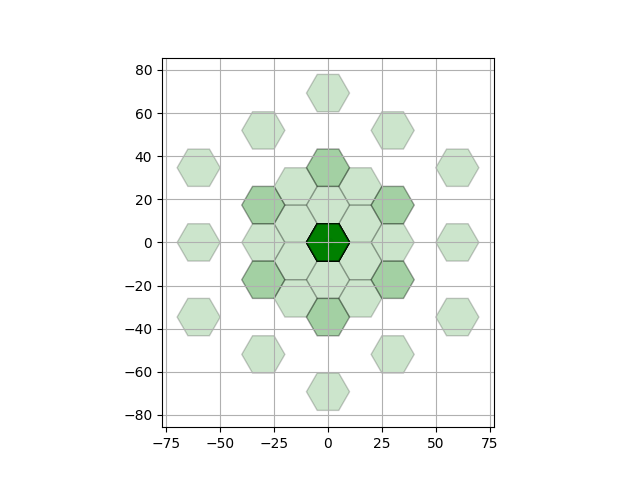
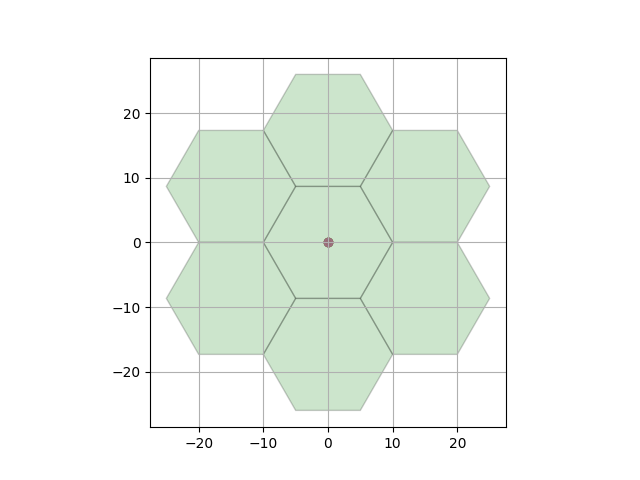
Prototipo inicial Celdas Hexagonales terminado hasta nivel 2.

diff --git a/protipo/grid_layout/prot_celda.py b/protipo/grid_layout/prot_celda.py
@@ -3,7 +3,7 @@ import matplotlib.pyplot as plt
 from matplotlib.patches import RegularPolygon
 import numpy as np
 import math
-import patron_hexagonal_circular as phc
+import prot_patron_hexagonal_circular as phc
 import time #debug
 #
 def guardar_lista(lista,bd_coordenadas):
@@ -50,7 +50,7 @@ def generar_patron_circular(nivel, patron):
 
 def variables():
 	numero_celdas=1	#requerimiento: funciona como una ventana, un slicing es util para graficar el número deseado
-	nivel=2 #nivel corresponde al nivel de coordenada hexagonal, (1.0.1) nivel 1, (2.0.1) nivel 2, etc.
+	nivel=1 #nivel corresponde al nivel de coordenada hexagonal, (1.0.1) nivel 1, (2.0.1) nivel 2, etc.
 	radio_ext=100/10 #radio de la celda hexagonal, igual en magnitud al lado.
 	apotema=math.sqrt(radio_ext**2 -(0.5*radio_ext)**2) #apotema
 	coordenada_patron=[] #inicialización de coordn
@@ -61,9 +61,15 @@ def test_coordenadas(nivel, coordenada_patron):
 	g=generar_lista(nivel, coordenada_patron)
 
 def distancia_entre_celdas(nivel, radio_ext):
-	'''Funcion que genera el valor de la distancia entre el origen y las celdas por nivel'''
+	'''Funcion que genera el valor de la distancia entre el origen y las celdas por nivel. Puede ser util para calcular el 
+	radio de todo el sistema'''
 	#print(radio_ext)
 	r_med=radio_ext/2
+	
+	#este nivel debe ser constante cuando se llama en el mapeo, porque?
+	#Rta, debido a que la distancia entre celdas, se ve afectada por 2/3*seno(60)(x-z), por esto dec
+	#no debe ser ajustable porque esa distancia se ajusta en la ecuacion de arriba.
+	print("distancia_entre_celdas",3*(nivel)*r_med)
 	#print(r_med, nivel)
 	return 3*(nivel)*r_med
 
@@ -75,25 +81,27 @@ def mapear_coordenadas_cartesianas(coordenadas_axiales, radio_ext):
 	coordenadas_cartesianas_vertical = []
 	for i in range(len(coordenadas_axiales)):
 		print(i)
-	for lista in coordenadas_axiales:
+	for lista, nvl in zip(coordenadas_axiales, range(nivel+1)):
 		print("axiales totales ", lista, "numero de celdas ", len(lista))
-		#time.sleep(0.5)
-		for nvl in range(nivel+1):
-			print("nivel: ",nvl)
-			dec = distancia_entre_celdas(nvl, radio_ext)
-			print("distancia ", dec)
-			for axial in lista:
-				print("coordenada axial ") 
-				print(axial)
-				#time.sleep(0.5)
+		print("nivel: ",nvl)
+		dec = distancia_entre_celdas(1, radio_ext)
+		print("distancia ", dec)
+		print("---------------------")
+
+		for axial in lista:
+			print("coordenada axial ") 
+			print(axial)
+			time.sleep(0.5)
 				
-				coord_y= 2. * np.sin(np.radians(60)) * (dec*axial[1] - dec*axial[2]) /3.
+			coord_y= 2. * np.sin(np.radians(60)) * (dec*axial[1] - dec*axial[2]) /3.
 				
-				print("x final: ", axial[0]*dec )
-				print("y final: ", coord_y )
-				#time.sleep(1)
-				coordenadas_cartesianas_horizontal.append(axial[0]*dec)
-				coordenadas_cartesianas_vertical.append(coord_y)
+			print("x final: ", axial[0]*dec , "---","y final: ", coord_y)
+
+			coordenadas_cartesianas_horizontal.append(axial[0]*dec)
+			coordenadas_cartesianas_vertical.append(coord_y)
+		print("---------------------")
+		print("---------------------")
+		print("---------------------")
 			#		print(coord)
 			#	coordenadas_cartesianas_horizontal.append(coord*dec)
 				#time.sleep(0.4)
@@ -131,13 +139,13 @@ if __name__=="__main__":
 	#coordenada_patron = generar_patron_circular(nivel, coordenada_patron)
 	coordenadas_axiales = phc.ensamblar(nivel)
 	##print(len(coordenadas_axiales))
-	'''Task 2. generar patron en malla'''
-	dec = distancia_entre_celdas(nivel, radio_ext)
+	'''Task 2. generar patron en malla-terminado'''
+	#dec = distancia_entre_celdas(nivel, radio_ext)
 	cartesian_x, cartesian_y = mapear_coordenadas_cartesianas(coordenadas_axiales, radio_ext)
 	print(len(cartesian_x), len(cartesian_y))
 	dibujar_celdas(cartesian_x,cartesian_y, radio_ext)
 	#test_coordenadas(nivel, coordenada_patron)
-	'''Task 3. generar numero de celdas deseadas'''
+	'''Task 3. generar numero de celdas deseadas-hint:slicing'''
 	numero_celdas=3
 	plt.grid(True)
 	plt.savefig("protipo2.png")

diff --git a/protipo/durbatuluk.py b/protipo/durbatuluk.py
@@ -1,0 +1,8 @@
+#import
+'''Ash nazg durbatulûk, ash nazg gimbatul'''
+
+if __name__=="__main__":
+	#Prototipo: FUNCION MAIN QUE GOBIERNA TODAS LOS SCRIPTS, FUNCION MAIN QUE BUSCA TODOS LOS SCRIPTS
+	pass
+else:
+	print("Modulo <ring of power> importado")
